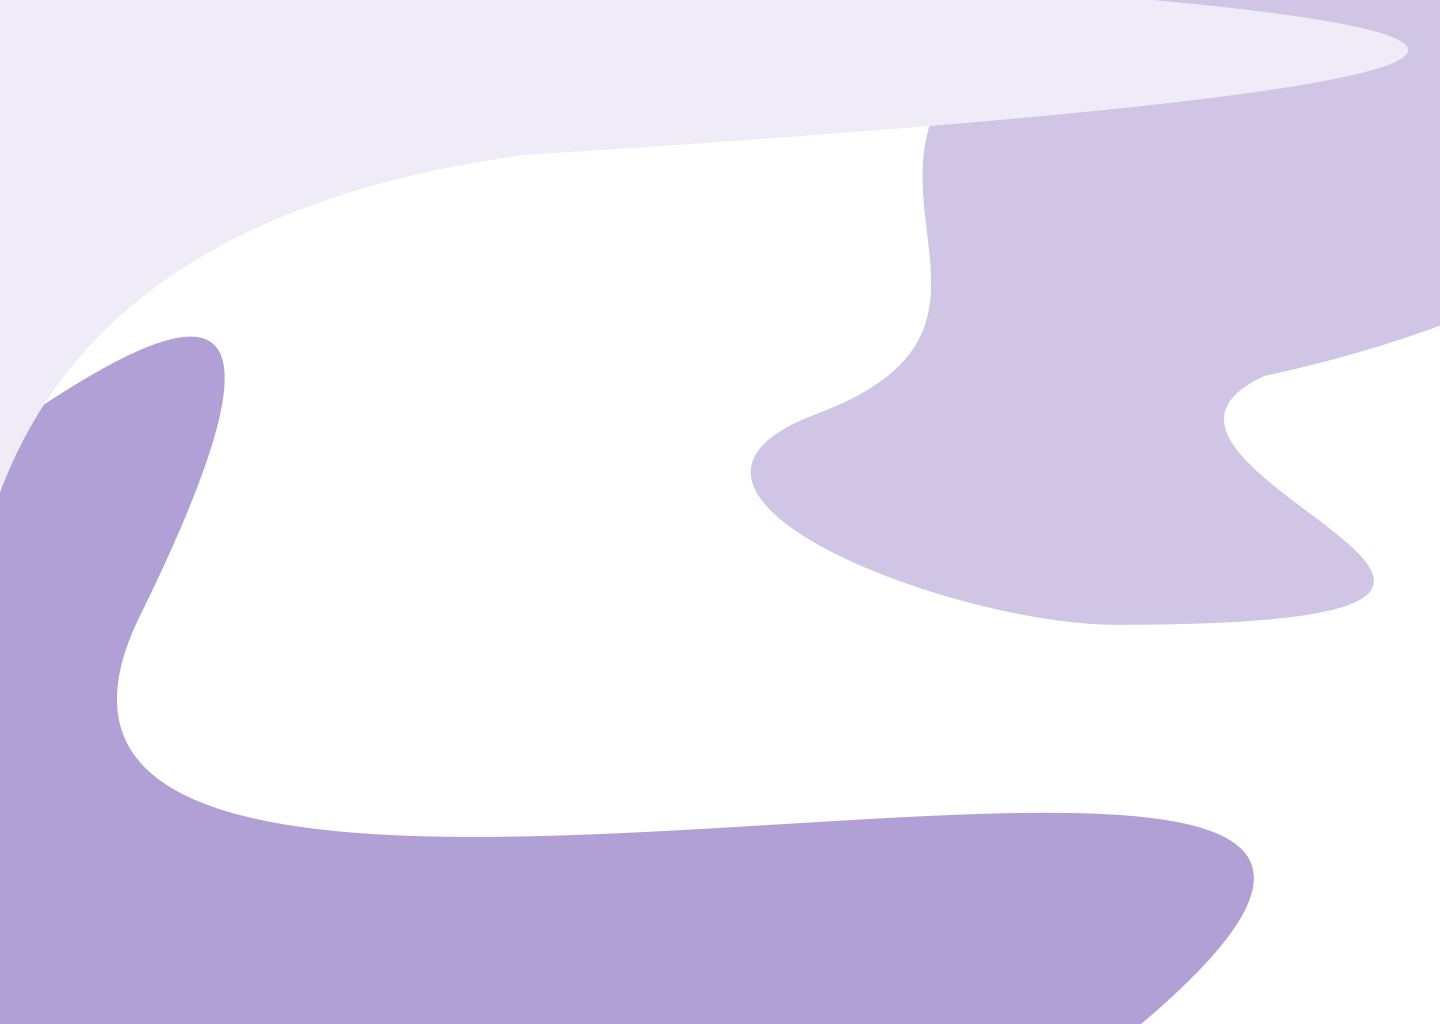
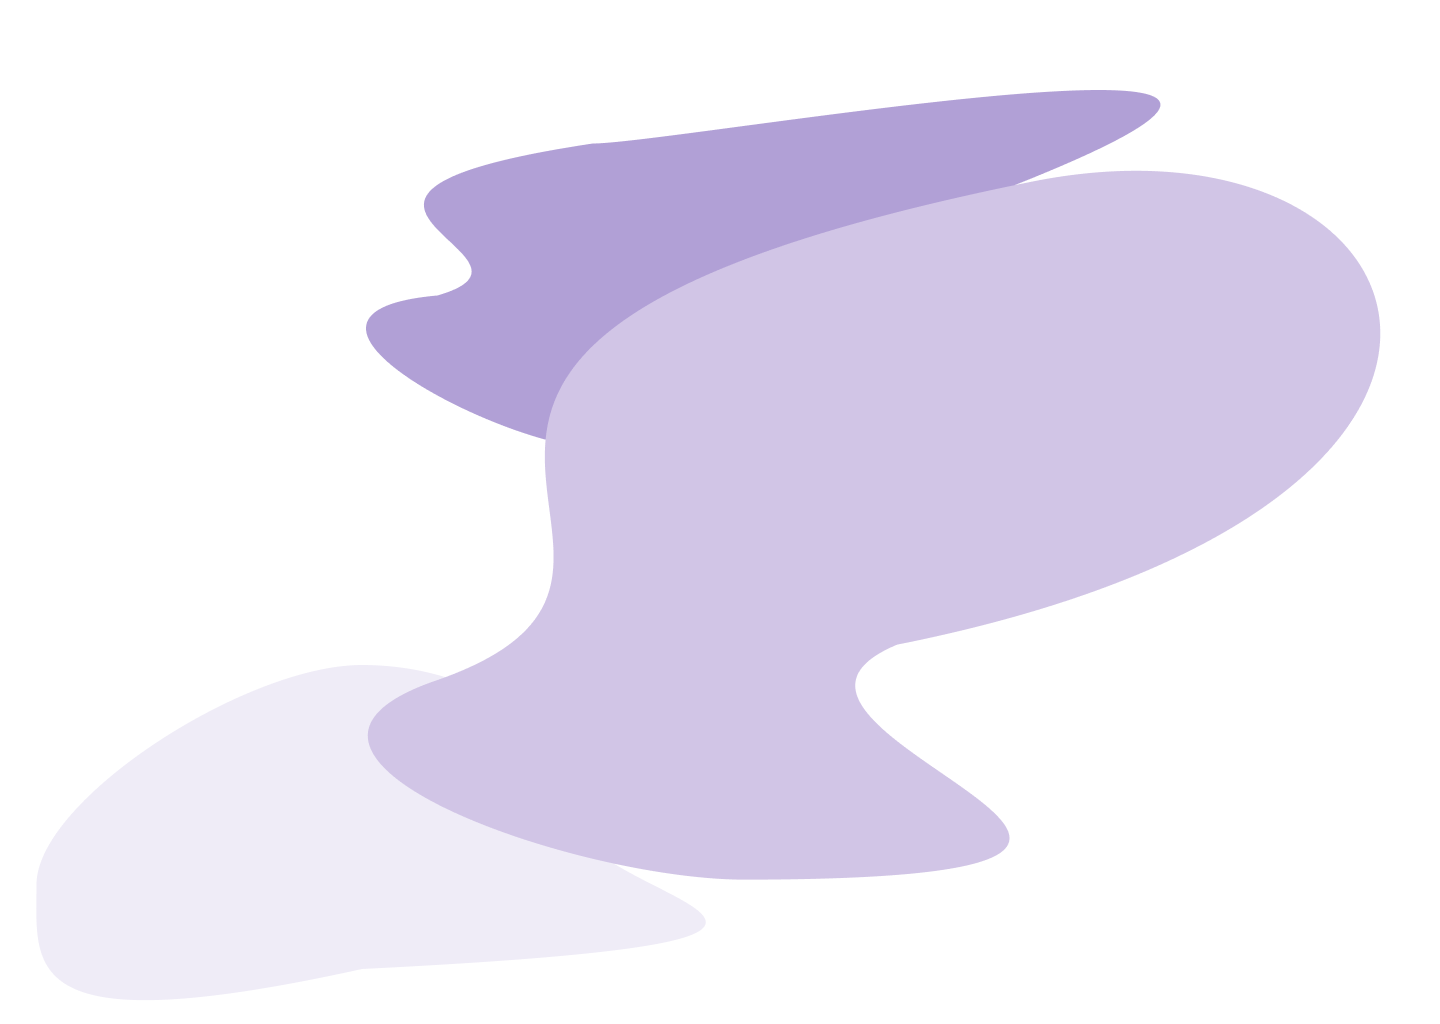
Changed colour

diff --git a/src/pages/colourPage.js b/src/pages/colourPage.js
@@ -3,13 +3,14 @@ import "./colorPage.css";
 
 export const ColourPage = () => {
     return (
-        <section className="">
-            <main className="colour">
+        <section className="colour">
+            <main className="">
             <div className="main-title-1">Through all your purchases...</div>
             <div className="main-title-2">One colour came out on top</div>
 
+
             <div>
-                <p className="subtitle-1">Don't worry <br></br>We are also a big fan of</p>
+                <p className="subtitle-1">Don't worry, <br></br>We're also big fans of</p>
                 <p className="subtitle-2"> purple</p>
             </div>
 
@@ -17,7 +18,6 @@ export const ColourPage = () => {
 
             </main>
             <div className="logo3"></div>
-            
             
         </section>
     );

diff --git a/src/pages/colorPage.css b/src/pages/colorPage.css
@@ -59,7 +59,7 @@
         position: absolute;
         width: 118px;
         height: 42px;
-        left: calc(50% - 118px/2 + 345px);
+        left: calc(50% - 118px/2 + 290px);
         top: calc(40% - 42px/2 + 222px);
     
         font-family: 'Roboto Serif';
@@ -72,23 +72,12 @@
 }
 
 
-
-.bg-shape-1 {
-    position: absolute;
-        width: 1860.32px;
-        height: 911.01px;
-        left: calc(50% - 1860.32px/2 - 396.34px);
-        top: calc(40% - 911.01px/2 + 280.12px);
-    
-        background: #B1A0D6;
-}
-
 .logo3 {
     position: absolute;
     width: 369px;
     height: 137px;
     left: calc(40% - 369px/2 + 904.5px);
-    top: calc(40% - 137px/2 + 250.5px);
+    top: calc(42% - 137px/2 + 250.5px);
 
     background: url("../imgs/logo.png");
     transform: rotate(90deg);

diff --git a/src/PageScrolling.js b/src/PageScrolling.js
@@ -35,7 +35,6 @@ export const PageScroll = () => {
                         <ColourPage />
                     </FullpageSection>
                   
-
                     <FullpageSection style={Style}>
                         <MonthlyMoneyPage />
                     </FullpageSection>
